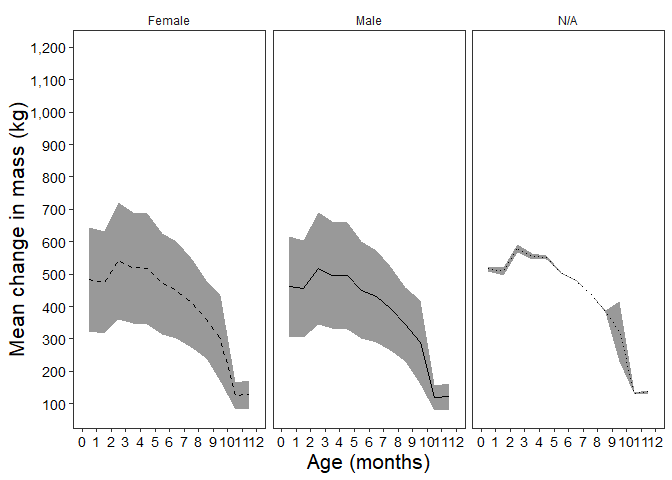
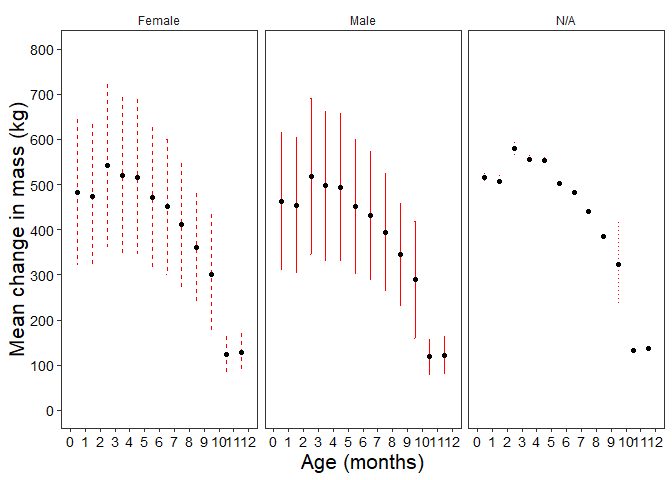
updated code for mean mass change per month (Rmd and knit)

diff --git a/delta_mass/mass_change_per_month.md b/delta_mass/mass_change_per_month.md
@@ -189,28 +189,26 @@ for (i in seq(from = 0, to = 12, by = 1)){  #step by 1 mths
 
 # move age_yrs to first column
 MC_mass <- MC_mass %>%
-  relocate(age_yrs)
+  relocate(age_yrs) %>% 
+  slice(-1)  #remove NA row
 
-MC_mass = MC_mass[-1,]
-
-head(MC_mass)
+kable(head(MC_mass))
 ```
 
-    ## # A tibble: 6 × 12
-    ##   age_yrs   `1`   `2`   `3`   `4`   `5`   `6`   `7`   `8`   `9`  `10` age_mth
-    ##     <dbl> <dbl> <dbl> <dbl> <dbl> <dbl> <dbl> <dbl> <dbl> <dbl> <dbl>   <dbl>
-    ## 1  0       966.  988.  961. 1026.  992.  961.  996. 1003.  998.  975.       0
-    ## 2  0.0849 1475. 1505. 1467. 1558. 1510. 1468. 1516. 1526. 1520. 1487.       1
-    ## 3  0.162  1970. 2014. 1959. 2089. 2021. 1960. 2030. 2043. 2034. 1988.       2
-    ## 4  0.247  2536. 2593. 2522. 2693. 2604. 2523. 2615. 2633. 2621. 2559.       3
-    ## 5  0.329  3083. 3150. 3065. 3266. 3162. 3066. 3175. 3195. 3182. 3109.       4
-    ## 6  0.414  3629. 3703. 3610. 3831. 3716. 3611. 3730. 3753. 3738. 3658.       5
+| age_yrs | 1 | 2 | 3 | 4 | 5 | 6 | 7 | 8 | 9 | 10 | age_mth |
+|---:|---:|---:|---:|---:|---:|---:|---:|---:|---:|---:|---:|
+| 0.0000000 | 966.2585 | 987.9429 | 960.6594 | 1025.729 | 991.8474 | 961.0652 | 996.0746 | 1002.790 | 998.4396 | 974.8527 | 0 |
+| 0.0849315 | 1474.9895 | 1505.0793 | 1467.2200 | 1557.512 | 1510.4972 | 1467.7831 | 1516.3629 | 1525.682 | 1519.6446 | 1486.9150 | 1 |
+| 0.1616438 | 1970.4780 | 2013.5903 | 1959.3460 | 2088.716 | 2021.3531 | 1960.1528 | 2029.7574 | 2043.110 | 2034.4594 | 1987.5647 | 2 |
+| 0.2465753 | 2536.3056 | 2593.4586 | 2521.5481 | 2693.051 | 2603.7495 | 2522.6177 | 2614.8910 | 2632.592 | 2621.1243 | 2558.9570 | 3 |
+| 0.3287671 | 3082.5108 | 3149.5277 | 3065.2063 | 3266.308 | 3161.5947 | 3066.4605 | 3174.6590 | 3195.415 | 3181.9682 | 3109.0716 | 4 |
+| 0.4136986 | 3628.9325 | 3702.5583 | 3609.9217 | 3830.855 | 3715.8152 | 3611.2995 | 3730.1679 | 3752.971 | 3738.1978 | 3658.1126 | 5 |
 
 ``` r
-MC_mass_diffs <- NA
-
 ######################################################
-#### Calculate mass change (not sex-specific)
+#### Calculate mass per month (not sex-specific)
+
+MC_mass_diffs <- NA
 
 # Mass for newborn
 M_nb <- pred_mass %>% filter(age_yrs == 0) 
@@ -233,47 +231,24 @@ for (i in seq(from = 1, to = MC_reps, by = 1)){
     mass_column <- MC_mass %>% 
         select(all_of(colname))     
     
-    str(mass_column)
+    #str(mass_column)
     
     diffs_mass <-  diff(as.matrix(mass_column))  #calculate delta mass
     diffs_mass <- as.data.frame(diffs_mass) 
     names(diffs_mass)[1] <- as.character(colname)
     
-    head(diffs_mass)
+    #head(diffs_mass)
     
     mass_chg <- rbind(delta_mass, diffs_mass) 
-    head(mass_chg)
+    #head(mass_chg)
     MC_mass_diffs <-cbind(MC_mass_diffs, mass_chg) 
 
 }
-```
 
-    ## tibble [13 × 1] (S3: tbl_df/tbl/data.frame)
-    ##  $ 1: num [1:13] 966 1475 1970 2536 3083 ...
-    ## tibble [13 × 1] (S3: tbl_df/tbl/data.frame)
-    ##  $ 2: num [1:13] 988 1505 2014 2593 3150 ...
-    ## tibble [13 × 1] (S3: tbl_df/tbl/data.frame)
-    ##  $ 3: num [1:13] 961 1467 1959 2522 3065 ...
-    ## tibble [13 × 1] (S3: tbl_df/tbl/data.frame)
-    ##  $ 4: num [1:13] 1026 1558 2089 2693 3266 ...
-    ## tibble [13 × 1] (S3: tbl_df/tbl/data.frame)
-    ##  $ 5: num [1:13] 992 1510 2021 2604 3162 ...
-    ## tibble [13 × 1] (S3: tbl_df/tbl/data.frame)
-    ##  $ 6: num [1:13] 961 1468 1960 2523 3066 ...
-    ## tibble [13 × 1] (S3: tbl_df/tbl/data.frame)
-    ##  $ 7: num [1:13] 996 1516 2030 2615 3175 ...
-    ## tibble [13 × 1] (S3: tbl_df/tbl/data.frame)
-    ##  $ 8: num [1:13] 1003 1526 2043 2633 3195 ...
-    ## tibble [13 × 1] (S3: tbl_df/tbl/data.frame)
-    ##  $ 9: num [1:13] 998 1520 2034 2621 3182 ...
-    ## tibble [13 × 1] (S3: tbl_df/tbl/data.frame)
-    ##  $ 10: num [1:13] 975 1487 1988 2559 3109 ...
 
-``` r
 MC_mass_diffs  <-  MC_mass_diffs %>% 
     select(-MC_mass_diffs)
 
-names(MC_mass_diffs)[0] <-  "age_yrs"
 
 #transpose the table -- result is a matrix
 MC_mass_diffs <- t(MC_mass_diffs)
@@ -284,9 +259,8 @@ MC_mass_diffs_t <- as_tibble(MC_mass_diffs)
 #save calculated mass diffs to file
 MC_mass_diffs_t %>% write_csv("data/MC_mass_diffs_t.csv", na = "", append = FALSE)
 
-
 ####################################################################
-##### Calulate mean  mass change (not sex-specific) across all columns (ages)
+##### Calculate mean  mass change (not sex-specific) across all columns (ages)
 
 mean_masschange <- MC_mass_diffs_t %>% summarise_all(funs(mean))
 
@@ -305,7 +279,7 @@ colnames(mean_masschange)[colnames(mean_masschange)=="V1"] <- "mean_masschange"
 
 mean_masschange$age_yrs <- MC_mass$age_yrs
 mean_masschange <- mean_masschange %>%
-  dplyr::select(age_yrs, everything())
+  relocate(age_yrs)
 
 #calculate sd for mass changes across all columns (ages)
 sd_masschange <- MC_mass_diffs_t %>% summarise_all(funs(sd))
@@ -316,10 +290,11 @@ colnames(sd_masschange)[colnames(sd_masschange)=="V1"] <- "sd_masschange"
 
 mean_masschange$sd_masschange <- sd_masschange$sd_masschange
 mean_masschange$sex <- "N/A"
+```
 
-
+``` r
 ###########################################################################
-# Calculate mass change for females
+# Calculate mass for females per month
 
 MC_female_mass = NA
 
@@ -362,28 +337,19 @@ for (i in seq(from = 0, to = 12, by = 1)){  #step by 0.5 mths
 
 # move age_yrs to first column
 MC_female_mass <- MC_female_mass %>%
-  dplyr::select(age_yrs, everything())
+  relocate(age_yrs) %>% 
+  slice(-1)
 
-MC_female_mass = MC_female_mass[-1,]
 
-head(MC_female_mass)
-```
 
-    ## # A tibble: 6 × 12
-    ##   age_yrs   `1`   `2`   `3`   `4`   `5`   `6`   `7`   `8`   `9`  `10` age_mth
-    ##     <dbl> <dbl> <dbl> <dbl> <dbl> <dbl> <dbl> <dbl> <dbl> <dbl> <dbl>   <dbl>
-    ## 1  0       994. 1016.  989. 1054. 1020.  989. 1024. 1031. 1026. 1003.       0
-    ## 2  0.0849 1518. 1548. 1510. 1600. 1553. 1510. 1559. 1568. 1562. 1530.       1
-    ## 3  0.162  2028. 2071. 2016. 2146. 2078. 2017. 2087. 2100. 2092. 2045.       2
-    ## 4  0.247  2610. 2667. 2595. 2767. 2677. 2596. 2688. 2706. 2695. 2632.       3
-    ## 5  0.329  3172. 3239. 3154. 3356. 3251. 3156. 3264. 3285. 3271. 3198.       4
-    ## 6  0.414  3734. 3808. 3715. 3936. 3821. 3716. 3835. 3858. 3843. 3763.       5
+#########################################################
+#### Calculate mass change for females
 
-``` r
 MC_female_mass_diffs <- NA
 
-#### Calculate mass change for females
-##first row must start at 0 because no chnange in mass from 0 to 0
+##first row must start at 0 because no change in mass from 0 to 0
+
+#Mass from newborn 
 M_nb <- pred_mass %>% filter(age_yrs == 0) 
     
 
@@ -442,7 +408,7 @@ for (i in seq(from = 1, to = MC_reps, by = 1)){
 
 ``` r
 MC_female_mass_diffs  <-  MC_female_mass_diffs %>% 
-    dplyr::select(-(MC_female_mass_diffs))
+    select(-MC_female_mass_diffs)
 
 #add the age column and move to front
 MC_female_mass_diffs$age_yrs <- MC_female_mass$age_yrs
@@ -478,7 +444,7 @@ colnames(mean_masschange_female)[colnames(mean_masschange_female)=="V1"] <- "mea
 
 mean_masschange_female$age_yrs <- MC_female_mass$age_yrs
 mean_masschange_female <- mean_masschange_female %>%
-  dplyr::select(age_yrs, everything())
+  relocate(age_yrs)
 
 #calculate sd for mass changes across all columns (ages)
 sd_masschange_female <- MC_female_mass_diffs_t %>% summarise_all(funs(sd))
@@ -489,11 +455,12 @@ colnames(sd_masschange_female)[colnames(sd_masschange_female)=="V1"] <- "sd_mass
 
 mean_masschange_female$sd_masschange <- sd_masschange_female$sd_masschange
 mean_masschange_female$sex <- "Female"
+```
 
-
-
+``` r
 ####################################################################
-##### Calulate mass change for males
+##### Calulate mass for males per month
+
 MC_male_mass = NA
 
 for (i in seq(from = 0, to = 12, by = 1)){  #step by 0.5 mths
@@ -535,27 +502,15 @@ for (i in seq(from = 0, to = 12, by = 1)){  #step by 0.5 mths
 
 # move age_yrs to first column
 MC_male_mass <- MC_male_mass %>%
-  relocate(age_yrs)
+  relocate(age_yrs) %>% 
+  slice(-1) #remove NA row
 
-MC_male_mass = MC_male_mass[-1,]
 
-head(MC_male_mass)
-```
+###############################################
+#### Calculate mass change for males
 
-    ## # A tibble: 6 × 12
-    ##   age_yrs   `1`   `2`   `3`   `4`   `5`   `6`   `7`   `8`   `9`  `10` age_mth
-    ##     <dbl> <dbl> <dbl> <dbl> <dbl> <dbl> <dbl> <dbl> <dbl> <dbl> <dbl>   <dbl>
-    ## 1  0       951.  972.  945. 1010.  976.  945.  980.  987.  983.  959.       0
-    ## 2  0.0849 1451. 1481. 1443. 1534. 1487. 1444. 1493. 1502. 1496. 1463.       1
-    ## 3  0.162  1939. 1982. 1927. 2057. 1989. 1928. 1998. 2011. 2003. 1956.       2
-    ## 4  0.247  2495. 2552. 2480. 2652. 2563. 2482. 2574. 2591. 2580. 2518.       3
-    ## 5  0.329  3033. 3100. 3015. 3216. 3112. 3017. 3125. 3145. 3132. 3059.       4
-    ## 6  0.414  3570. 3644. 3551. 3772. 3657. 3553. 3671. 3694. 3679. 3599.       5
-
-``` r
 MC_male_mass_diffs <- NA
 
-#### Calculate mass change for males
 ##first row must start at 0 because no chnange in mass from 0 to 0
 
 
@@ -566,8 +521,8 @@ for (i in seq(from = 1, to = MC_reps, by = 1)){
     
     #mass_chg <- rnorm(1, M_nb$mean_mass, M_nb$sd_mass)     
     mass_chg_male <- MC_mass %>% 
-        dplyr::filter(age_yrs == 0) %>% 
-        dplyr::select(colname)
+        filter(age_yrs == 0) %>% 
+        select(all_of(colname))
     delta_mass <- mass_chg_male 
     
     
@@ -575,47 +530,25 @@ for (i in seq(from = 1, to = MC_reps, by = 1)){
     names(delta_mass)[1] <- colname
     
     mass_column <- MC_male_mass %>% 
-        dplyr:: select(colname)     
+        select(all_of(colname))     
     
-    str(mass_column)
+    #str(mass_column)
     
     diffs_mass_male <-  diff(as.matrix(mass_column))  #calculate delta mass
     diffs_mass_male <- as.data.frame(diffs_mass_male) 
     names(diffs_mass_male)[1] <- as.character(colname)
     
-    head(diffs_mass_male)
+    #head(diffs_mass_male)
     
     mass_chg_male <- rbind(delta_mass, diffs_mass_male) 
-    head(mass_chg_male)
+    #head(mass_chg_male)
     MC_male_mass_diffs <-cbind(MC_male_mass_diffs, mass_chg_male) 
 
 }
-```
 
-    ## tibble [13 × 1] (S3: tbl_df/tbl/data.frame)
-    ##  $ 1: num [1:13] 951 1451 1939 2495 3033 ...
-    ## tibble [13 × 1] (S3: tbl_df/tbl/data.frame)
-    ##  $ 2: num [1:13] 972 1481 1982 2552 3100 ...
-    ## tibble [13 × 1] (S3: tbl_df/tbl/data.frame)
-    ##  $ 3: num [1:13] 945 1443 1927 2480 3015 ...
-    ## tibble [13 × 1] (S3: tbl_df/tbl/data.frame)
-    ##  $ 4: num [1:13] 1010 1534 2057 2652 3216 ...
-    ## tibble [13 × 1] (S3: tbl_df/tbl/data.frame)
-    ##  $ 5: num [1:13] 976 1487 1989 2563 3112 ...
-    ## tibble [13 × 1] (S3: tbl_df/tbl/data.frame)
-    ##  $ 6: num [1:13] 945 1444 1928 2482 3017 ...
-    ## tibble [13 × 1] (S3: tbl_df/tbl/data.frame)
-    ##  $ 7: num [1:13] 980 1493 1998 2574 3125 ...
-    ## tibble [13 × 1] (S3: tbl_df/tbl/data.frame)
-    ##  $ 8: num [1:13] 987 1502 2011 2591 3145 ...
-    ## tibble [13 × 1] (S3: tbl_df/tbl/data.frame)
-    ##  $ 9: num [1:13] 983 1496 2003 2580 3132 ...
-    ## tibble [13 × 1] (S3: tbl_df/tbl/data.frame)
-    ##  $ 10: num [1:13] 959 1463 1956 2518 3059 ...
 
-``` r
 MC_male_mass_diffs  <-  MC_male_mass_diffs %>% 
-    dplyr::select(-(MC_male_mass_diffs))
+    select(-MC_male_mass_diffs)
 
 # add the age column and move to front
 MC_male_mass_diffs$age_yrs <- MC_male_mass$age_yrs
@@ -733,8 +666,9 @@ mean_masschange <- as_tibble(read_csv("data/mean_masschange.csv"))
     ## ℹ Specify the column types or set `show_col_types = FALSE` to quiet this message.
 
 Mean mass change by sex
+
 ![](mass_change_per_month_files/figure-gfm/plot%20mean%20mass%20change%20by%20sex-1.png)<!-- -->
 
 Mean mass change (not sex-specific)
 
-![](mass_change_per_month_files/figure-gfm/plot%20mean%20mass%20change%20NA-1.png)<!-- -->![](mass_change_per_month_files/figure-gfm/plot%20mean%20mass%20change%20NA-2.png)<!-- -->
+![](mass_change_per_month_files/figure-gfm/plot%20mean%20mass%20change%20NA-1.png)<!-- -->
